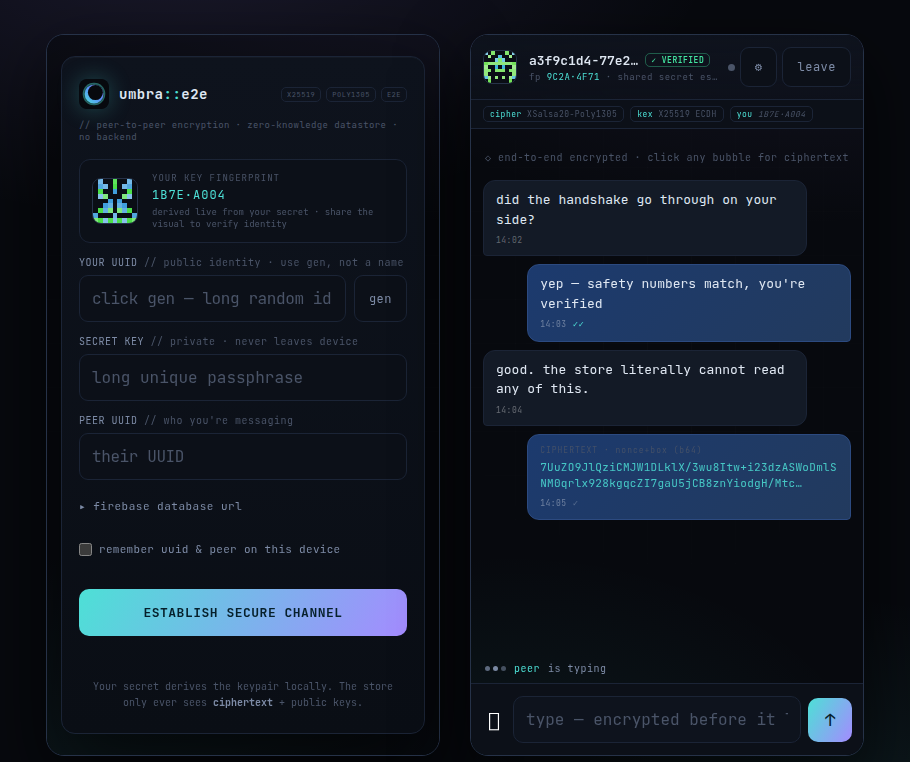
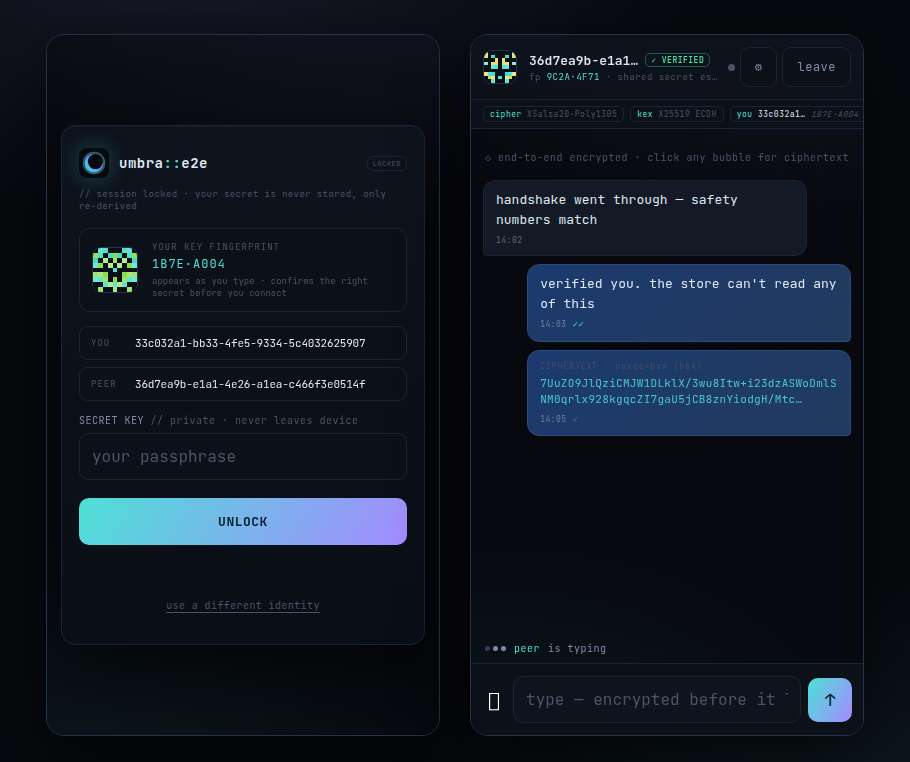
Production pass: correct stale README claims, drop dead code
README audit against the code. Four claims had drifted since the
allowlist landed:

- the handshake diagram omitted the access-gate round trip entirely
- "identity squatting" and "spam" were written pre-allowlist and
  overstated the risk; both now require an approved entry
- the security-model table said nothing about session hygiene, though
  keys are memory-only and auto-lock drops them after 30 min
- the project layout listed assets/ and firebase.rules.json twice, from
  two separate edits, and omitted CNAME

Also added the offline passphrase-attack row to the threat model: it is
the realistic attack once a UUID leaks, and the one the PBKDF2 work
factor actually defends against.

Verified rather than assumed: every path in the layout block exists, the
embedded rules are byte-identical to firebase.rules.json, and the
iteration count, conversation-id width, safety-number group count, idle
window, image cap, size limit and token-refresh margin all match source.

Code:
- #statusText was dead, and that hid a real defect — the connection
  indicator changed the dot on disconnect but left the text reading
  "live". It now reads live/offline.
- dropped the unused #send id, replacing it with an aria-label

Screenshot refreshed: it predated the lock screen and the identity bar,
so it advertised a UI that no longer exists.

Claude-Session: https://claude.ai/code/session_015CSTz3E8q8QoNQUwhEiQc9

diff --git a/js/app.js b/js/app.js
@@ -270,7 +270,10 @@
       },
       onTyping: (uuid, ts) => { if (uuid === S.peer) showTyping(ts); },
       onRead: (uuid, ts) => { if (uuid === S.peer) { S.peerRead = Math.max(S.peerRead, ts || 0); render(); } },
-    }, (up) => $('statusDot').classList.toggle('on', up));
+    }, (up) => {
+      $('statusDot').classList.toggle('on', up);
+      $('statusText').textContent = up ? 'live' : 'offline';   // the dot alone read as connected
+    });
 
     S.db.getMessages(S.cid).then((list) => {
       list.forEach((m) => S.msgs.set(m.id, m));

diff --git a/index.html b/index.html
@@ -150,7 +150,7 @@
       <button type="button" class="icon" id="attach" title="send encrypted image">🖼</button>
       <input type="file" id="fileInput" accept="image/*" hidden />
       <input type="text" id="msgInput" placeholder="type — encrypted before it leaves this device…" autocomplete="off" />
-      <button type="submit" class="send" id="send">↑</button>
+      <button type="submit" class="send" aria-label="send">↑</button>
     </form>
     <div class="img-preview hidden" id="imgPreview"></div>
 

diff --git a/README.md b/README.md
@@ -29,7 +29,7 @@ your keys are derived in the browser and never leave the device.
 
 <br />
 
-<img src="assets/screenshot.png" width="880" alt="Umbra login and chat screens" />
+<img src="assets/screenshot.png" width="880" alt="Umbra lock screen and encrypted conversation" />
 
 </div>
 
@@ -58,6 +58,8 @@ sequenceDiagram
     participant B as Bob · browser
 
     Note over A,B: PBKDF2-SHA256(secret, salt = uuid, 250k) → X25519 keypair
+    A->>DB: GET /allowlist/{uuidA}
+    DB-->>A: status · refused unless "active"
     A->>DB: PUT /users/{uuidA} · publicKey only
     B->>DB: PUT /users/{uuidB} · publicKey only
     A->>DB: GET /users/{uuidB}
@@ -86,6 +88,7 @@ cannot even distinguish an image from a line of text.
 | Identity binding | Public keys are **write-once**, blocking key substitution |
 | Membership | Operator allowlist — a UUID cannot publish a key until approved by hand |
 | Verification | Signal-style 12-group safety number + TOFU key-change alert |
+| Session | Keys live in memory only; auto-lock drops them after 30 min idle |
 | Transport | HTTPS, required — WebCrypto refuses to run outside a secure context |
 
 The per-UUID salt means an attacker must attack each identity separately: no rainbow tables,
@@ -335,9 +338,10 @@ passphrase is written to neither, at any point.
 **⚠ Still exposed**
 
 - **Metadata** — anyone who knows both UUIDs can compute the path and see timestamps and sizes
-- **Identity squatting** — an *unclaimed* UUID can be taken; your peer would then encrypt to the squatter
+- **Identity squatting** — an *unclaimed* UUID can be taken, and your peer would then encrypt to the squatter. Now limited to **approved users**, since publishing a key requires an allowlist entry
 - **No forward secrecy** — keys are static; a leaked secret exposes past messages
-- **Spam** — any authed client that can compute a path may append; injected junk is permanent
+- **Spam** — an *approved* client that can compute a path may append, including under someone else's `from`; injected junk is permanent
+- **Passphrase strength** — if a UUID leaks, its public key can be read and the passphrase attacked **offline**. PBKDF2 250k makes this ~2,900 years for four random words and seconds for a dictionary word
 - **Open sign-up** — auth proves nothing about *who* is asking, though the allowlist gates what an anonymous token may actually do
 
 </td></tr>
@@ -366,10 +370,11 @@ js/config.js        Firebase URL + API key (public by design)
 js/crypto.js        PBKDF2 derivation, nacl.box, hashed conv ids, safety numbers
 js/auth.js          anonymous Firebase Auth over REST + token refresh
 js/firebase.js      raw REST client + live EventSource stream, auto-reconnect
-js/app.js           UI wiring, identicons, ciphertext peek, scramble reveal
+js/app.js           views, access gate, auto-lock, identicons, ciphertext peek
 lib/                vendored TweetNaCl + util — the only dependencies, both offline
-assets/             icon set and screenshots
-firebase.rules.json database rules, including the operator allowlist
+firebase.rules.json database rules: allowlist, write-once keys, append-only messages
+assets/             icon set (svg · ico · apple-touch · 512) and the screenshot
+CNAME               custom domain for GitHub Pages
 ```
 
 No package manager, no bundler, no transpiler. Clone it and open it.
